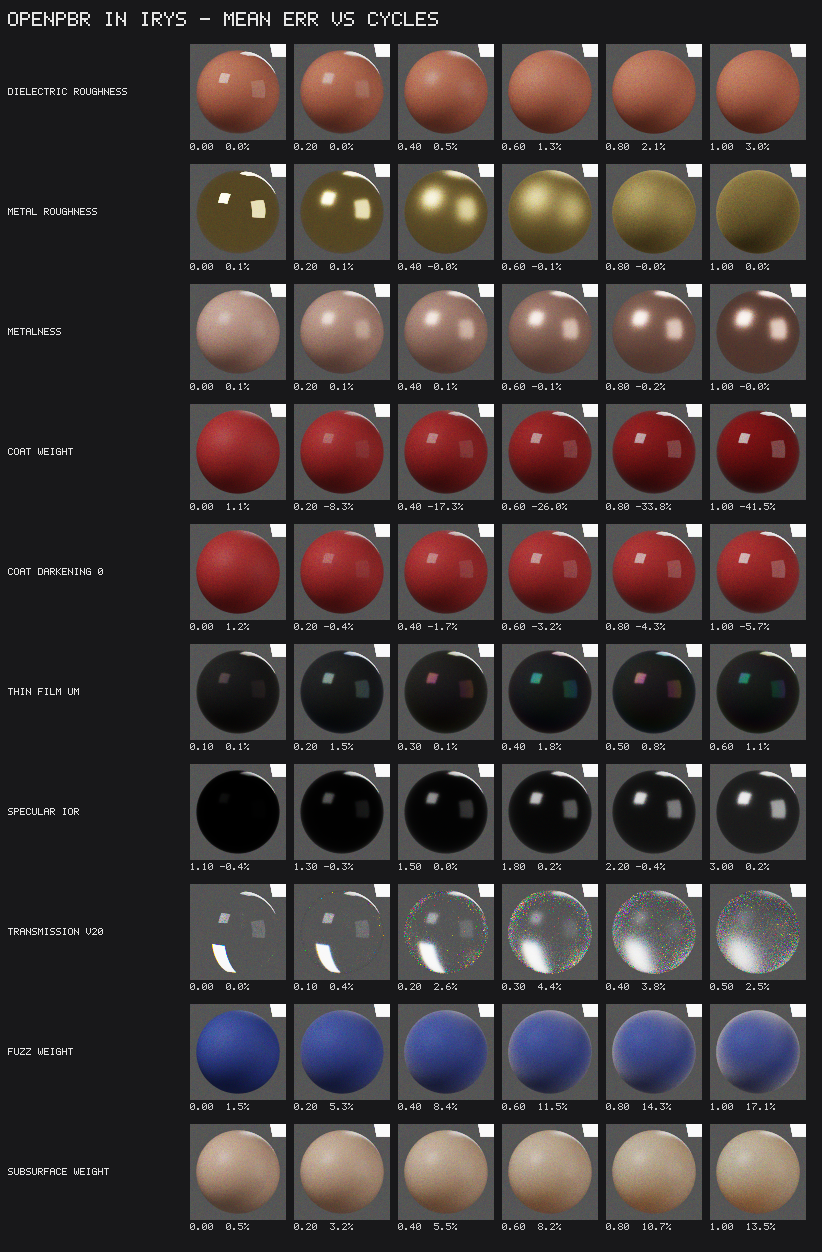
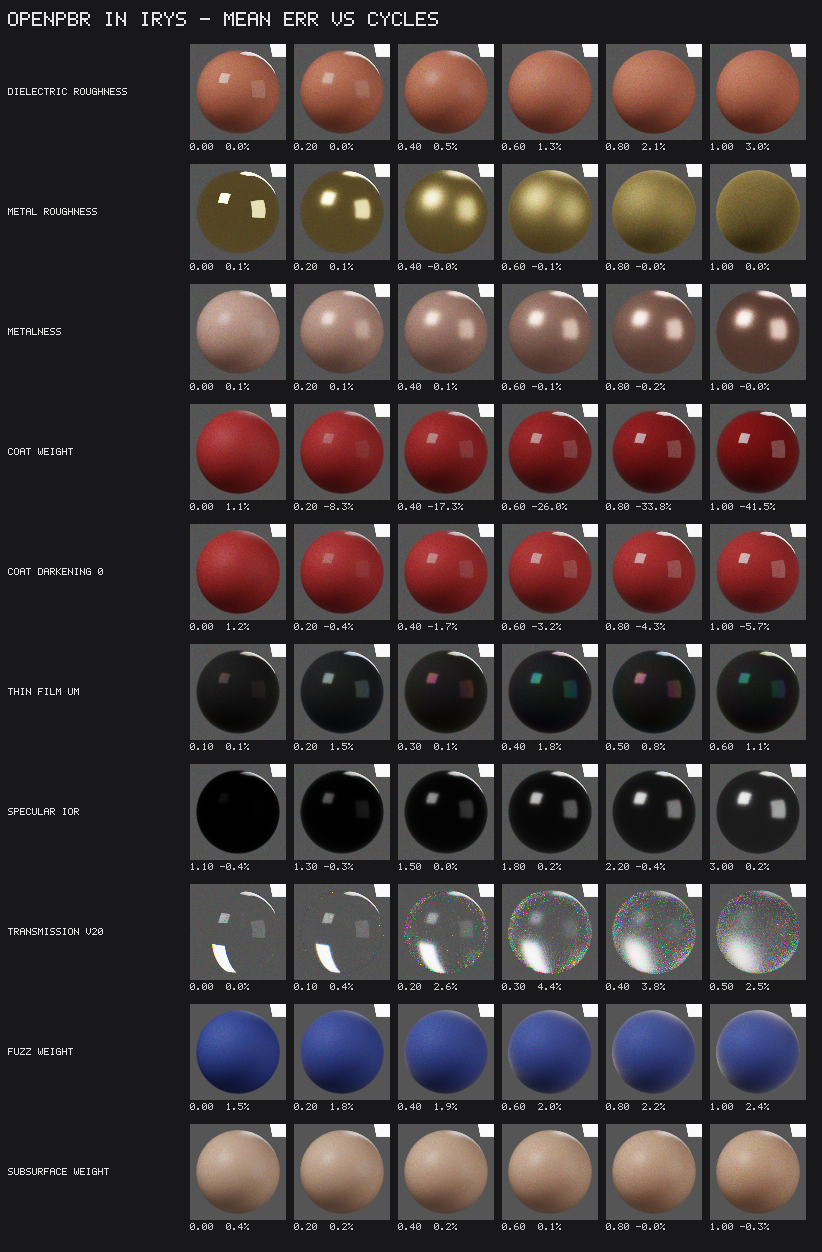
docs: phase 4b (match vs Cycles, volume speed, hair on the GPU, the head)

diff --git a/docs/design.md b/docs/design.md
@@ -2495,3 +2495,138 @@ work.
   Metal.
 - **The tables are built per process (≈ 1 s) and are not shared with the
   device.** A device integrator would upload them as textures.
+
+## Phase 4b: closing the look's gaps (2026-10-18)
+
+Four pieces, each its own commit. Coat darkening stays **on** by default, as
+the spec says; Blender comparisons set `coat_darkening = 0`.
+
+![sweep](look-openpbr-sweep.png)
+
+### Match vs Cycles, before → after
+
+| Row | Phase 4 | Phase 4b |
+|---|---|---|
+| fuzz weight 0 … 1 | +1.5 … +17.1 % | **+1.5 … +2.4 %** |
+| subsurface weight 0 … 1 | +0.5 … +13.5 % | **−0.3 … +0.4 %** (Cycles mode) |
+| every other row | unchanged | unchanged (`look-openpbr-match.csv`) |
+
+- **Fuzz** (`look::sheen`): Zeltner, Burley & Chiang 2022's LTC microfibre
+  sheen, the model the spec recommends. The `(a, b, R)` fit is Cycles'
+  `table_sheen_ltc` (Blender v4.4.3, Apache-2.0), read the way Cycles reads
+  it, so the lobe is Principled sheen by construction. `R(μ_o, r)` is the
+  layer albedo used by albedo scaling, and it needs no normaliser. The
+  remaining +1.5 % is the base's own offset (it is there at weight 0).
+- **Subsurface** (`SubsurfaceMode::Cycles`, next to the default `Physical`):
+  Blender 4.4's `Random Walk`, read from `bssrdf.h`, `subsurface.h` and
+  `subsurface_random_walk.h`. The mean free path is `radius·scale/4π`,
+  `σ_t = 1/(d(1−g))`, and the albedo comes from Chiang+ 2016's fit with its
+  0.2 floor. Entry is a GGX refraction at `(r², IOR)` with no Fresnel
+  weight; the exit is diffuse. The +13.5 % in phase 4 came almost entirely
+  from the mean free path, which is 4π× shorter in Cycles. New gate: the
+  fit, walked on a half-space with diffuse entry, returns the colour
+  (±0.015; at 0.95 the fit saturates, as in Cycles). The skin's spectral
+  walk is untouched.
+
+### Volumes
+
+The phase-4 volume did run at 0.06 Mpaths/s, but the cause was not the
+majorant. `Track::new` scanned the 96³ grid for its maximum on every path.
+`Grid::max` is now computed once. On top of that, `Medium::with_majorant_grid(r)`
+tracks against per-supervoxel majorants: the maximum any trilinear lookup
+inside the supervoxel can return, with a floor where there is emission. It
+spends one Exp(1) optical depth across supervoxels. Each event lane carries
+its local majorant, so PRB is unchanged.
+
+| look-volume (M-series, loaded machine) | Mpaths/s |
+|---|---|
+| phase 4 | 0.06 |
+| max cached, global majorant | 7.3 |
+| 4³ / 8³ / 16³ majorant grid | 9.2 / 9.2 / 8.0 |
+
+On this dense smoke the grid only gains about 1.25×: the mean supervoxel
+majorant is 0.41 of the global one at 8³, and the DDA's per-cell cost eats
+the rest. A sparser medium gains more. New gates: grid frame vs global
+frame (+0.66 σ at 8³), grid PRB vs central differences (≤ 5e-9), and grid
+heterogeneous transmittance. `look-volume.png` is now 960×600 × 1024 spp in
+70 s. **Not ported to the GPU.** The CPU now meets the "clean frame under a
+minute" goal at the original 480×300 size (≈ 17 s). A device port would
+need the hat lift and `Rng` in WGSL, as hair has now.
+
+### Hair on the GPU
+
+wgpu 30's Metal ray queries are triangles only, so I measured both options
+on `look_hair`'s brown cut (126 k segments, 280×360, depth 24;
+`examples/look_hair_gpu`):
+
+| Primitive | Prims | Primary Mrays/s | Same fibre as CPU | Converged frame mean vs CPU | Paths Mpaths/s |
+|---|---|---|---|---|---|
+| **Cylinders** (AABB + exact intersection in the query) | 126 k | 71 | **1.0000** | +0.25 % (noise) | 4.8 |
+| tubes, 3 sides | 756 k | 539 | 0.944 | +2.1 % | 31.9 |
+| tubes, 4 sides | 1.0 M | 549 | 0.973 | −1.5 % | 29.8 |
+| tubes, 6 sides | 1.5 M | 472 | 0.983 | −1.4 % | 27.2 |
+| tubes, 8 sides | 2.0 M | 493 | 0.990 | −2.3 % | 25.4 |
+
+(CPU f64 reference: 0.48–0.75 Mpaths/s.) **I chose cylinders.** They are
+the CPU's round fibre exactly: same fibre on every primary ray, `|Δh|`
+1.5e-5, shadow rays 0/5536 disagree. The device kernel walks the CPU's
+paths: at depth 2, 98 % agree per path and the frame sum agrees to 5e-4;
+at depth 10, 87 % agree and the frame sum agrees to 1.1e-4. That keeps
+the GPU-vs-CPU invariant. Tubes are 5–7× faster but they are a different
+fibre: the frame is biased 1.4–2.3 % and `h` is off by 0.03–0.07, which
+moves the azimuthal lobes. They are also not needed on the head, where
+the skin's walks dominate (below). Tubes remain available as `StrandPrim::Tubes(n)`.
+
+Two f32 details: a ray leaving through its own fibre starts on that fibre's
+surface, so roots within 1e-2 r are rejected (f64 gets this right at 1e-7).
+A shadow query must return at the first generated hit, because a generated
+intersection is committed only by the next `rayQueryProceed`.
+
+### Strands on the head
+
+![front](look2-head-hair-front.png)
+
+![three-quarter](look2-head-hair-3q.png)
+
+`skin::groom` draws roots area-uniformly on the scan:
+
+- **Scalp**: above a soft, azimuth-dependent hairline, ears excluded,
+  combed away from the crown and clumped onto guides on a 0.08-unit grid.
+  191 k strands, 5 segments each, 4.5–8 mm long.
+- **Eyebrows**: where the painted brows are, from a blurred albedo map.
+  1.7 k strands.
+- **Stubble**: jaw, chin, upper lip and neck, with density from the painted
+  stubble and a floor. 50 k strands, 0.75–2 mm.
+
+That is 1.06 M segments, grown in 0.5 s, with the BLAS built in 0.05 s.
+Melanin is θ = (5, 0.4) with a scale per region. `GpuSkin::with_strands`
+takes the nearest of skin and fibre per ray, evaluates Chiang's BCSDF at a
+fibre per hero wavelength (lobes picked by the lanes' mean `A_p`), and
+includes fibres in every shadow test, the SSS exits' too. The walks see
+only the skin. Without strands the kernel is bit-identical to before. A
+test checks that far-away strands leave every lane unchanged and that near
+strands darken the frame deterministically.
+
+| 1024² × 256 spp, depth 5 | With hair | Skin only |
+|---|---|---|
+| front | 220 s (1.22 Mpaths/s) | 204 s |
+| three-quarter | 241 s (1.11 Mpaths/s) | 224 s |
+
+### Deviations and risks
+
+1. The sheen table is Cycles' copy of the paper's fit. The paper's own
+   data was not imported separately.
+2. Cycles mode is only for comparisons. The physical (spec) mode stays the
+   default, and the two differ by ≈ 13 % on the swatch.
+3. The majorant grid helps sparse media. This smoke is not sparse.
+4. Hair in the skin kernel is **forward only** and GPU only. The CPU skin
+   integrator has no strands, so the head's hair has no gradient or CPU
+   reference; only the HairScene kernel is checked per path against the
+   CPU. The four-wavelength lobe choice (mean `A_p`) is the skin kernel's
+   own convention.
+5. The groom is procedural: regions are hand-set heights and azimuths on
+   this scan, the painted brows and stubble stay in the albedo under the
+   fibres, there are no eyelashes, and fibre radii (55–65 µm) are a little
+   thick so they read at 1024².
+6. Per-path GPU/CPU agreement falls with hair depth: f32 rounding moves
+   lobe choices, while the frames still agree.
